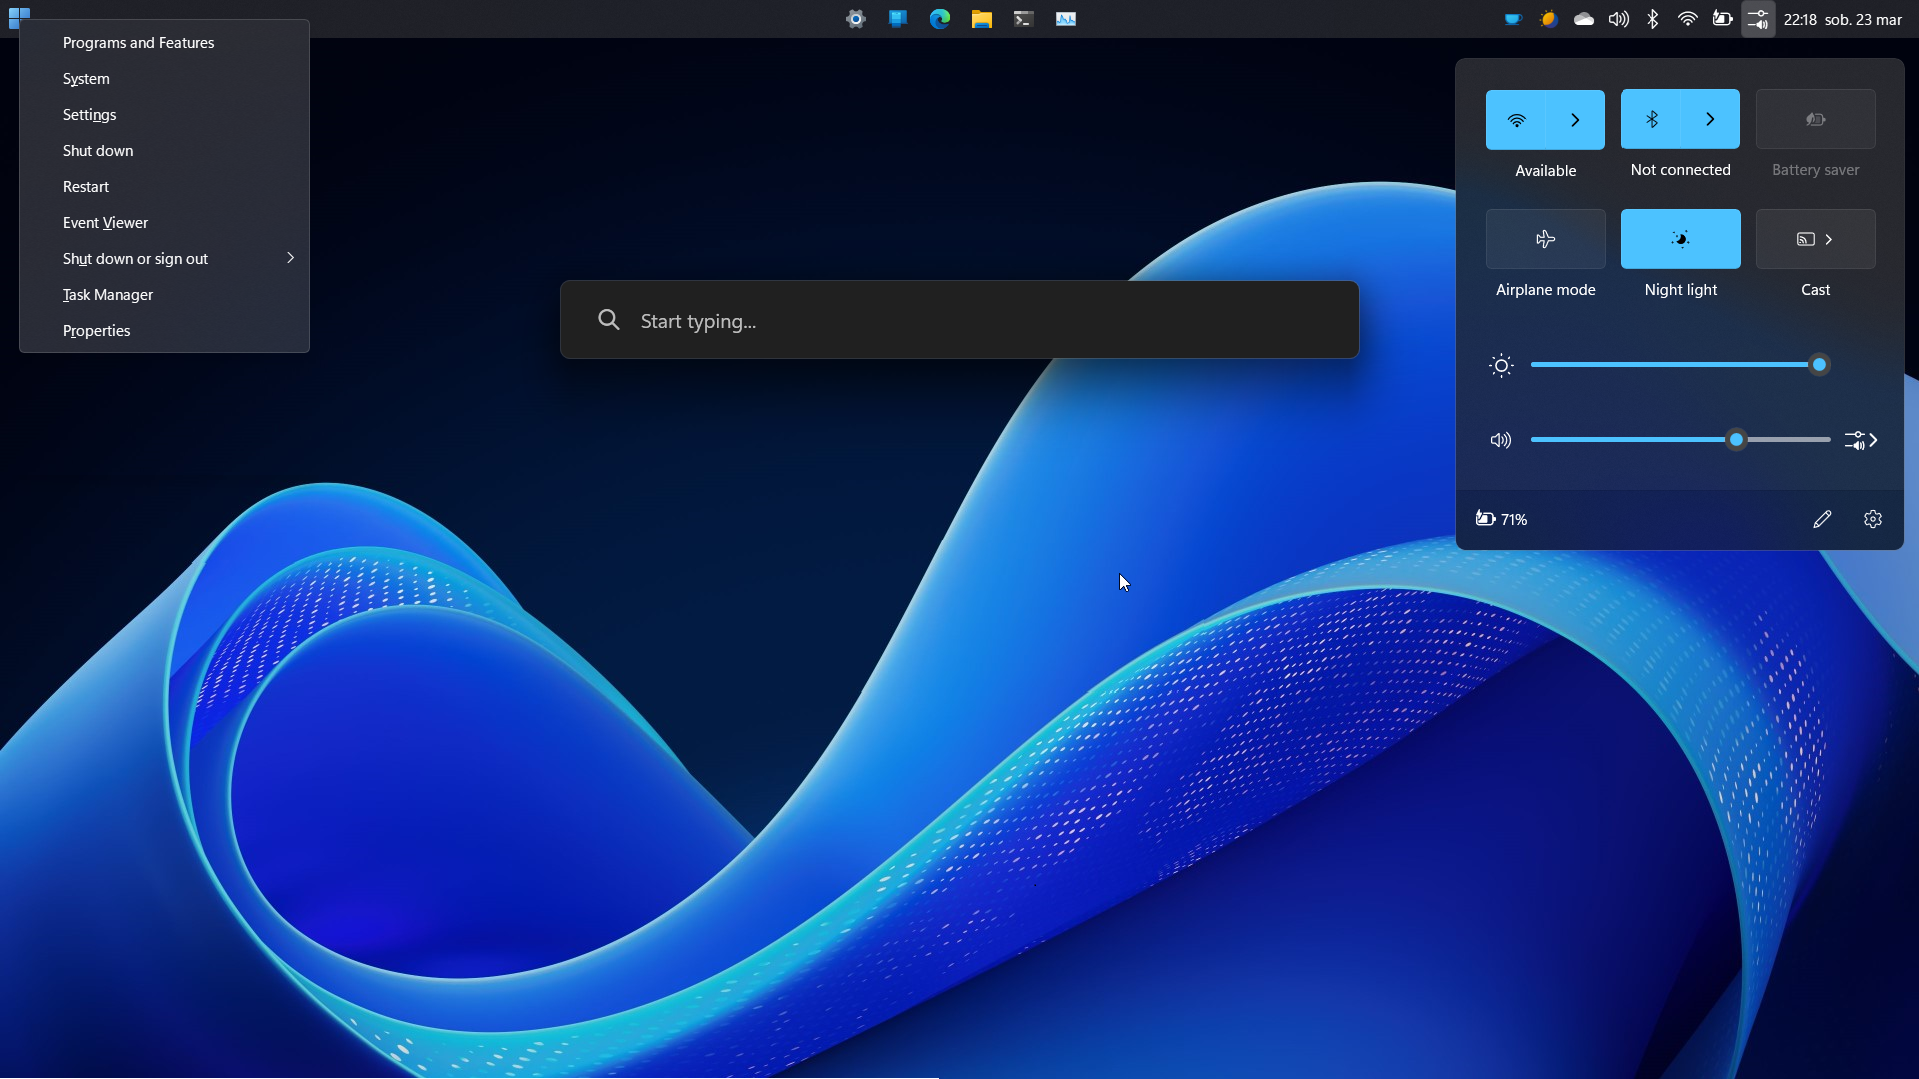
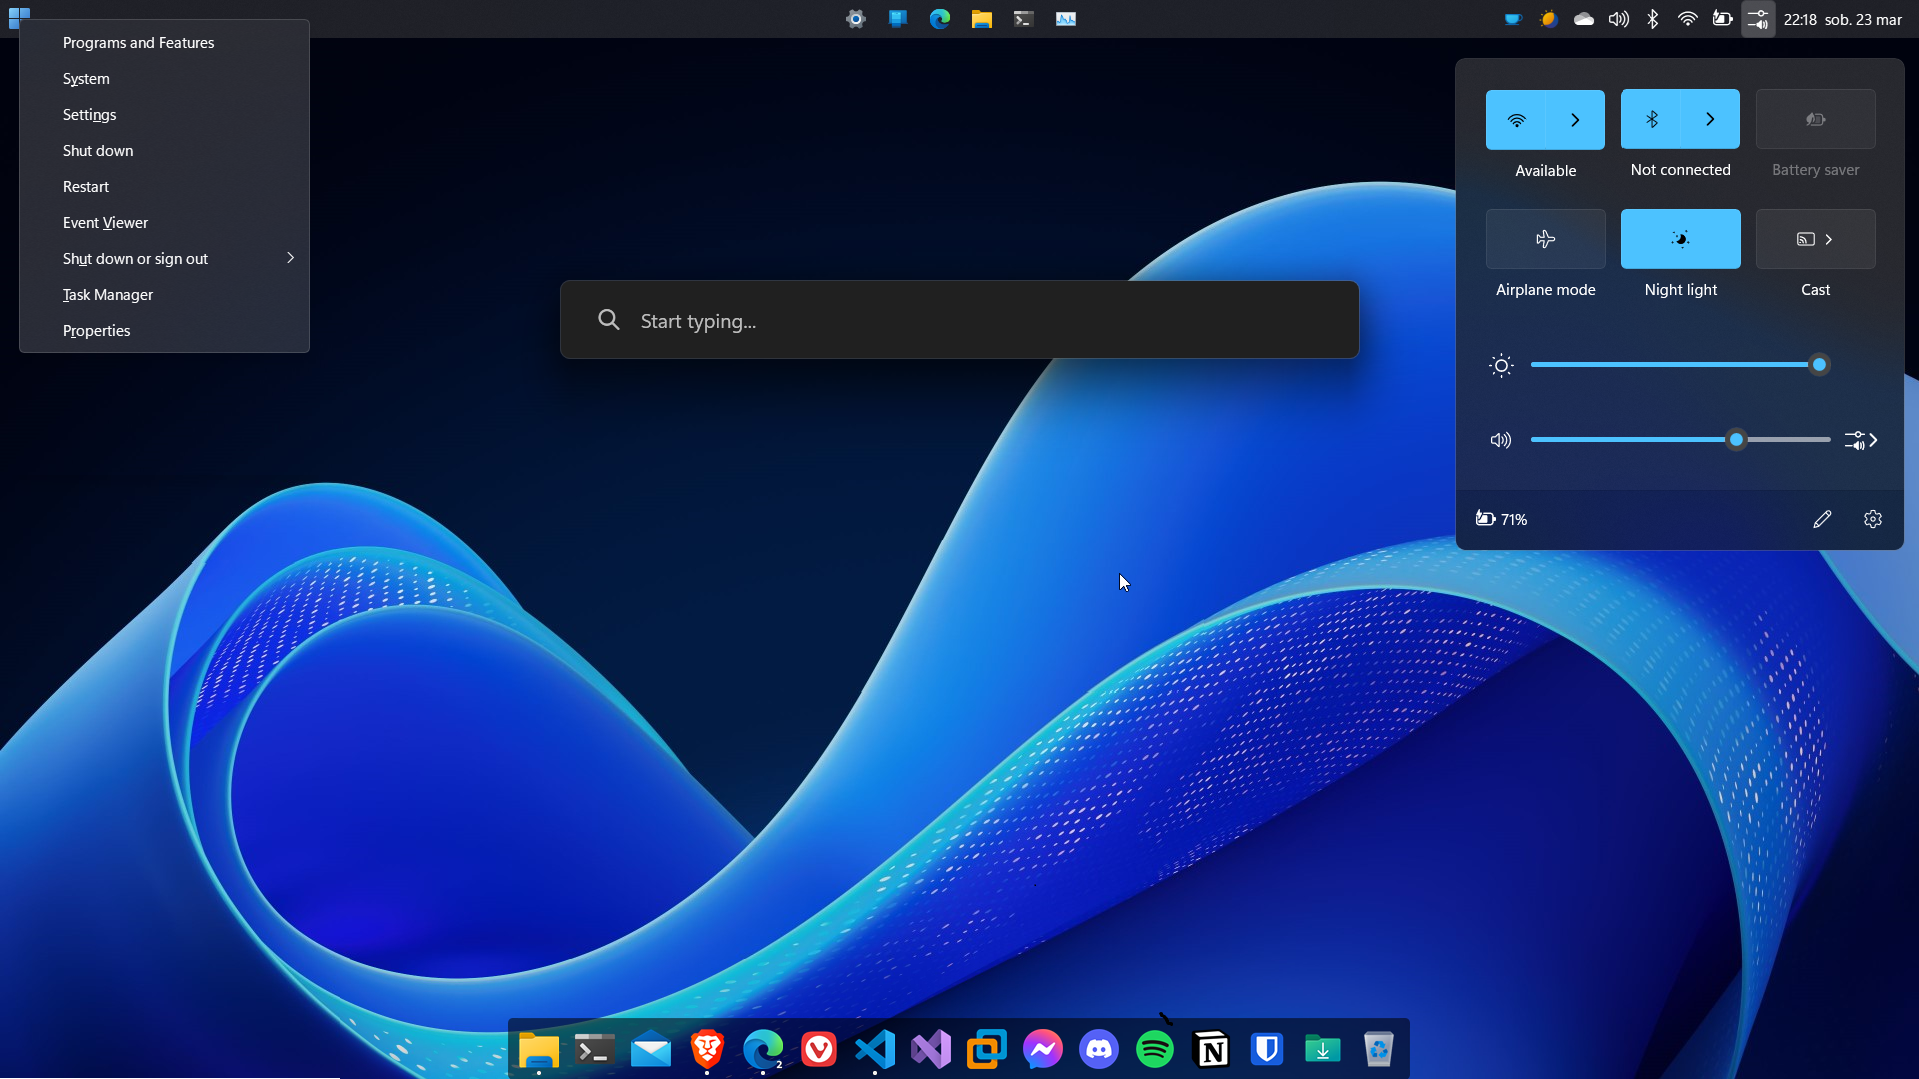
v0.3.0 final

Changed region(s): [[0.1845, 0.9175, 0.7379, 1.0]]

diff --git a/README.md b/README.md
@@ -16,6 +16,8 @@
 
 ![winmac_light_02](https://github.com/Asteski/WinMac/blob/main/img/winmac_light_02.jpg)
 
+![winmac_light_03](https://github.com/Asteski/WinMac/blob/main/img/winmac_light_03.jpg)
+
 ## Features
 
 - **Spotlight-like quick launcher**
